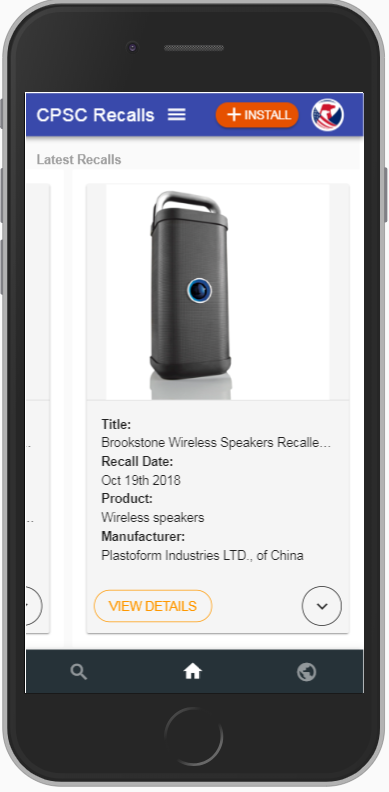
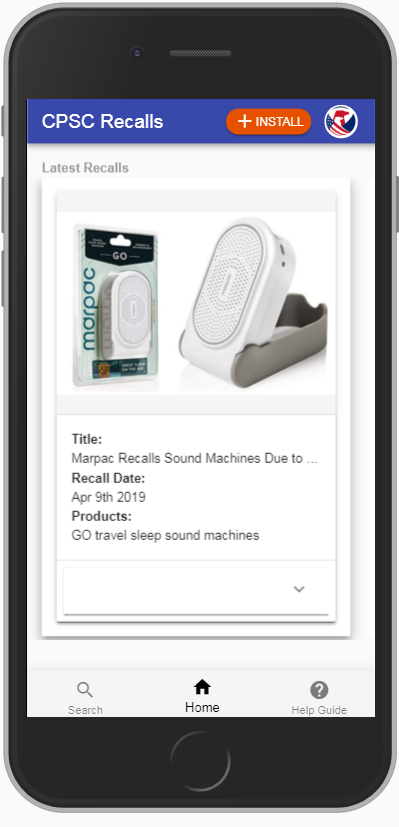
changes o support integrated the guide as part of the application

Changed region(s): [[0.0, 0.0, 1.0, 1.0], [0.1851, 0.2424, 0.8329, 0.5152]]

diff --git a/src/components/InstallPrompt.vue b/src/components/InstallPrompt.vue
@@ -1,69 +1,60 @@
 <template>
-   <v-layout row justify-center>
+  <v-layout row justify-center>
     <div class="text-xs-center">
-    <v-dialog
-      v-model="dialog"
-      max-width="500"
-      max-heigh="500"
-      transition="dialog-bottom-transition"
-      scrollable
-    >
-    
-      <v-card>
-        <v-toolbar  color="grey lighten-3">
-           <v-btn class="grey lighten-3" icon light @click="dialog = false">
-            <v-icon>close</v-icon>
-          </v-btn>
-          <v-toolbar-title  color="black">Install The Recall App</v-toolbar-title>
-        <v-spacer></v-spacer>
-        </v-toolbar>
-        
-         <v-card >
-        <v-card-text>
-            
-            <img class="centered"  contain with="40" height="35" src="https://www.cpsc.gov/sites/all/themes/cpsc/images/logo.png" alt="cpsc">  
-            <v-divider></v-divider>
-          <span>Install this app on your home screen for convenient access when you're on the go.</span>
-        </v-card-text>
-          <v-divider dark></v-divider>
-        <v-card-actions class=" grey lighten-3">
-          <p class="text-xs-center"><span>Just tap the share 
-              </span> <img  contain with="20" height="25" src="/static/img/IOS/share_icon_ios.png" alt="iso share">
-              <span> button then 'Add to Home Screen'</span></p>
-        </v-card-actions>
-      </v-card>
-       </v-card>
-    </v-dialog>
+      <v-dialog v-model="dialog" max-width="500" max-heigh="500" transition="dialog-bottom-transition" scrollable>
+        <v-card>
+          <v-toolbar color="grey lighten-3">
+            <v-btn class="grey lighten-3" icon light @click="dialog = false">
+              <v-icon>close</v-icon>
+            </v-btn>
+            <v-toolbar-title color="black">Install The Recall App</v-toolbar-title>
+            <v-spacer></v-spacer>
+          </v-toolbar>
+          <v-card>
+            <v-card-text>
+              <img class="centered" contain with="40" height="35"
+                src="https://www.cpsc.gov/sites/all/themes/cpsc/images/logo.png" alt="cpsc">
+              <v-divider></v-divider>
+              <span>Install this app on your home screen for convenient access when you're on the go.</span>
+            </v-card-text>
+            <v-divider dark></v-divider>
+            <v-card-actions class=" grey lighten-3">
+              <p class="text-xs-center"><span>Just tap the share
+                </span> <img contain with="20" height="25" src="/static/img/IOS/share_icon_ios.png" alt="iso share">
+                <span> button then 'Add to Home Screen'</span></p>
+            </v-card-actions>
+          </v-card>
+        </v-card>
+      </v-dialog>
     </div>
   </v-layout>
 </template>
 <script>
+  export default {
+    name: "installPrompt",
 
-export default {
-  name: "installPrompt",
-  
-  data () {
+    data() {
       return {
         dialog: false
       }
     },
-   mounted(){
-       const vm = this;
-       vm.dialog = true
-       
-   }
-  
-};
+    mounted() {
+      const vm = this;
+      vm.dialog = true
+
+    }
+
+  };
+
 </script>
 <style scoped>
-.centered {
- position:relative;
+  .centered {
+    position: relative;
 
-  left: 45%;
-  top:50%;
-  /* bring your own prefixes */
-  transform: translate(-30%, -30%);
-}
+    left: 45%;
+    top: 50%;
+    /* bring your own prefixes */
+    transform: translate(-30%, -30%);
+  }
+
 </style>
-
-

diff --git a/src/App.vue b/src/App.vue
@@ -8,19 +8,15 @@
     <v-toolbar color="indigo darken-1" dark dense app fixed id="toolbar">
       <v-toolbar-title v-text="title" color="white">
       </v-toolbar-title>
-      
-
       <div class="d-flex align-center " style="margin-left: auto">
         <v-bottom-sheet v-if="!beforeinstallpromptfired" v-model="sheet" v-touch="{
               up: () => swipe('up'),
               down: () => swipe('down')
             }"
           lazy>
-
           <v-btn slot="activator" dark flat value="info">
             <v-icon color="orange lighten-2">info</v-icon>
           </v-btn>
-
           <v-card raised ripple class=" flex text-xs-center">
             <v-card-title primary-title class="justify-center">
               <footer-info> </footer-Info>

diff --git a/src/router/index.js b/src/router/index.js
@@ -3,6 +3,7 @@ import Router from 'vue-router'
 import home from '@/components/Home.vue'
 import resultList from '@/components/ResultList.vue'
 import error from '@/components/Error.vue'
+import help from '@/components/help.vue'
 
 Vue.use(Router)
 
@@ -17,6 +18,11 @@ export default new Router({
       path: '/resultList',
       name: 'ResultList',
       component:resultList
+    },
+    {
+      path: '/help',
+      name: 'Help',
+      component:help
     },
     {
       path: '/error',

diff --git a/src/components/BottomNav.vue b/src/components/BottomNav.vue
@@ -15,7 +15,7 @@
         <span>{{tiles[1].title}}</span>
         <v-icon color="black" >home</v-icon>
       </v-btn>
-      <v-btn dark color="black" flat :value="help.title"  @click="redirectToGuide()">
+      <v-btn dark color="black" flat :value="help.title" to="help">
         <span>{{help.title}}</span>
             <v-icon color="black" >help</v-icon>
       </v-btn>

diff --git a/docs/README.md b/docs/README.md
@@ -2,56 +2,9 @@
 
 # User Guide
 
-## Installation
- 
-### IOS Devices (Iphone, Ipad) 
-<img src="./assets/ios/icons8-ios-logo-50.png" alt="ios" >
-
-
-
-1.	Navigate to [https://m-recalls.cpsc.gov](https://m-recalls.cpsc.gov) using *Safari* from your IOS device.
-
-
-2.	Click on “Share” icon present at the bottom of the *Safari* browser
-
-    <img src="./assets/ios/iphone_step1.png" alt="ios step 1" > 
-
-
-3.	Click on the “Add to Home Screen” button
-
-    <img src="./assets/ios/iphone_step2.png" alt="ios step 2" > 
-
-
-4.	The add to home prompt comes up, click on “Add”
-
-    <img src="./assets/ios/iphone_step3.png" alt="ios step 3" > 
-
-
-5.	Look for CPSC Icon on iPhone home screen
-
-    <img src="./assets/ios/iphone_step4.png" alt="ios step 4" > 
-
-
-### Android Devices 
-<img src="./assets/Android/icons8-android-os-48.png" alt="Android Icon" > 
-
-1. Navigate to [https://m-recalls.cpsc.gov](https://m-recalls.cpsc.gov) from your Android device.
-
-2. You should automatically be prompted to install the app.
-   
-3. Click on “Add” in the installation prompt as in the image below.
-
-    <img src="./assets/Android/Android_Step1.jpg" alt="Android" > 
-
-4. Look for the *CPSCRecalls* Icon on your device’s home screen then click on it.
-
-    <img src="./assets/Android/Android_Step2.jpg" alt="Android2" > 
-
-5. The app opens initially with the latest 15 recalls displayed.
-
 ## Home Page
 
-The home page displayed the latest 15 recalls. Scroll or swipe right to continue viewing latest recalls.
+The home page displays the latest 15 recalls. Scroll or swipe right/left to continue viewing latest recalls.
 
   <img src="./assets/latest_recalls.png" alt="latest recalls" > 
 
@@ -102,3 +55,49 @@ The Company and the Product Type fields are only available as additional filters
 
     <img src="./assets/search_result_detail.png" alt="search result detail" >
 
+## Installation
+ 
+### IOS Devices (Iphone, Ipad) 
+<img src="./assets/ios/icons8-ios-logo-50.png" alt="ios" >
+
+
+
+1.	Navigate to [https://m-recalls.cpsc.gov](https://m-recalls.cpsc.gov) using *Safari* from your IOS device.
+
+
+2.	Click on “Share” icon present at the bottom of the *Safari* browser
+
+    <img src="./assets/ios/iphone_step1.png" alt="ios step 1" > 
+
+
+3.	Click on the “Add to Home Screen” button
+
+    <img src="./assets/ios/iphone_step2.png" alt="ios step 2" > 
+
+
+4.	The add to home prompt comes up, click on “Add”
+
+    <img src="./assets/ios/iphone_step3.png" alt="ios step 3" > 
+
+
+5.	Look for CPSC Icon on iPhone home screen
+
+    <img src="./assets/ios/iphone_step4.png" alt="ios step 4" > 
+
+
+### Android Devices 
+<img src="./assets/Android/icons8-android-os-48.png" alt="Android Icon" > 
+
+1. Navigate to [https://m-recalls.cpsc.gov](https://m-recalls.cpsc.gov) from your Android device.
+
+2. You should automatically be prompted to install the app.
+   
+3. Click on “Add” in the installation prompt as in the image below.
+
+    <img src="./assets/Android/Android_Step1.jpg" alt="Android" > 
+
+4. Look for the *CPSCRecalls* Icon on your device’s home screen then click on it.
+
+    <img src="./assets/Android/Android_Step2.jpg" alt="Android2" > 
+
+5. The app opens initially with the latest 15 recalls displayed.
